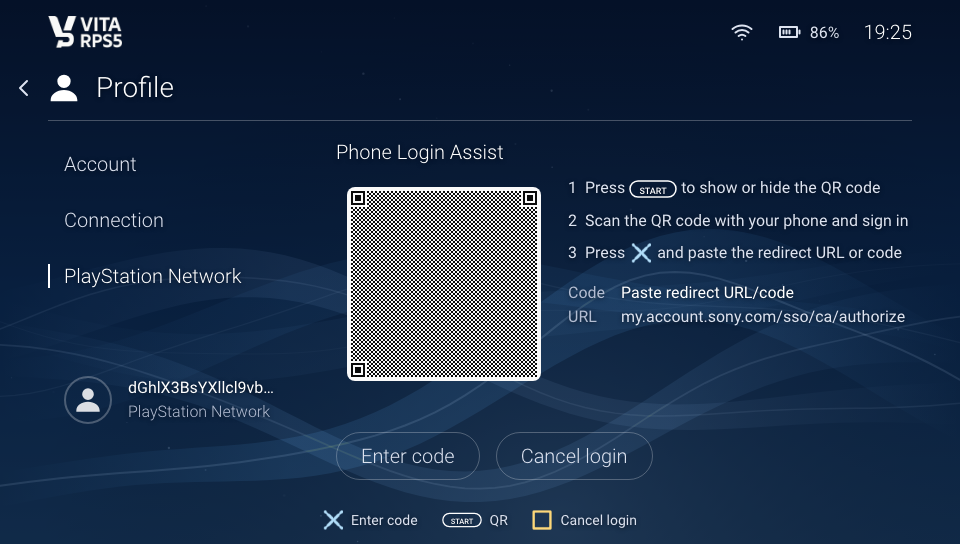
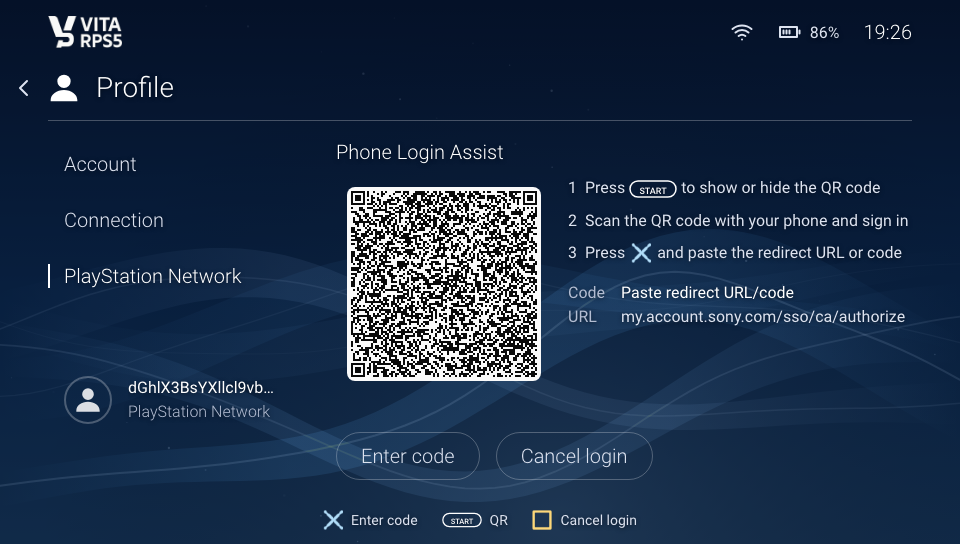
docs(ui): mock QR fill is irregular, not a checkerboard (#351)
The generator's multiplier and increment are both odd, so the low bit of the
seed alternates every step and picking on it drew every other module. Pick
on bit 8 instead.

Claude-Session: https://claude.ai/code/session_01CJGPK2AVTJiLxQiddAML7V

Changed region(s): [[0.3438, 0.3438, 0.5625, 0.7188]]

diff --git a/docs/design/ui-mocks/xmb-app.js b/docs/design/ui-mocks/xmb-app.js
@@ -328,7 +328,7 @@ function loginHTML(){
  <div class="st inf"><span style="color:var(--text-3)">Code</span><b>Paste redirect URL/code</b><span style="color:var(--text-3)">URL</span><b style="color:var(--text-2)">${SHORT_URL}</b></div></div></div></div><div class="lbtns">${tbtn('Enter code',{do:'btn',arg:'ok'})}${tbtn('Cancel login',{do:'btn',arg:'sq'})}</div>`;
 }
 /* Illustrative 93-module code (QR version 18) inside a 2-module quiet zone: 97 modules at 2 px = the 194 px plate. Not a real code; finders in three corners, pseudo-random fill. */
-function qrSvg(){const N=93,Q=2,ink='#0a0a0a';let s='';const f=(x,y)=>`<rect x="${x+Q}" y="${y+Q}" width="7" height="7" fill="${ink}"/><rect x="${x+Q+1}" y="${y+Q+1}" width="5" height="5" fill="#fafafa"/><rect x="${x+Q+2}" y="${y+Q+2}" width="3" height="3" fill="${ink}"/>`;s+=f(0,0)+f(N-7,0)+f(0,N-7);let r=7;for(let y=0;y<N;y++)for(let x=0;x<N;x++){if((x<8&&y<8)||(x>N-9&&y<8)||(x<8&&y>N-9))continue;r=(r*9301+49297)%233280;if(r%2===0)s+=`<rect x="${x+Q}" y="${y+Q}" width="1" height="1" fill="${ink}"/>`;}return s;}
+function qrSvg(){const N=93,Q=2,ink='#0a0a0a';let s='';const f=(x,y)=>`<rect x="${x+Q}" y="${y+Q}" width="7" height="7" fill="${ink}"/><rect x="${x+Q+1}" y="${y+Q+1}" width="5" height="5" fill="#fafafa"/><rect x="${x+Q+2}" y="${y+Q+2}" width="3" height="3" fill="${ink}"/>`;s+=f(0,0)+f(N-7,0)+f(0,N-7);let r=7;for(let y=0;y<N;y++)for(let x=0;x<N;x++){if((x<8&&y<8)||(x>N-9&&y<8)||(x<8&&y>N-9))continue;r=(r*9301+49297)%233280;if(((r>>8)&1)===0)s+=`<rect x="${x+Q}" y="${y+Q}" width="1" height="1" fill="${ink}"/>`;}return s;}
 function openPage(kind,g,focus='r'){
  S.pg={kind,g:g||0,focus,row:S.pg.kind===kind?S.pg.row:{}};S.screen='page';showOnly('page');paintTop();paintPage(true);
 }
